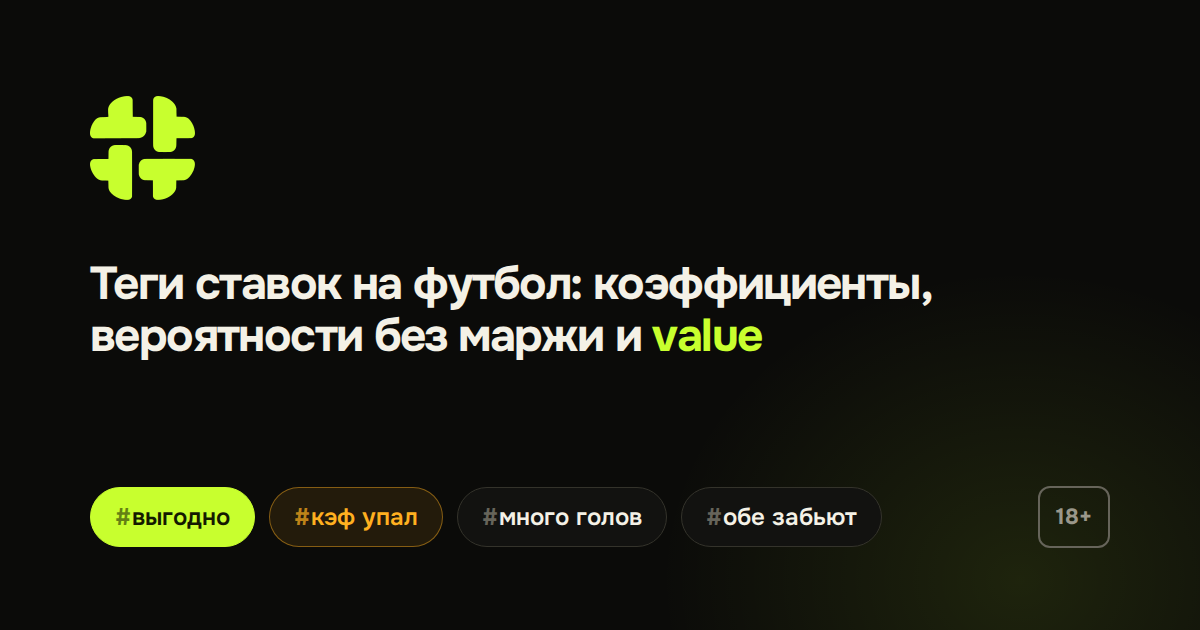
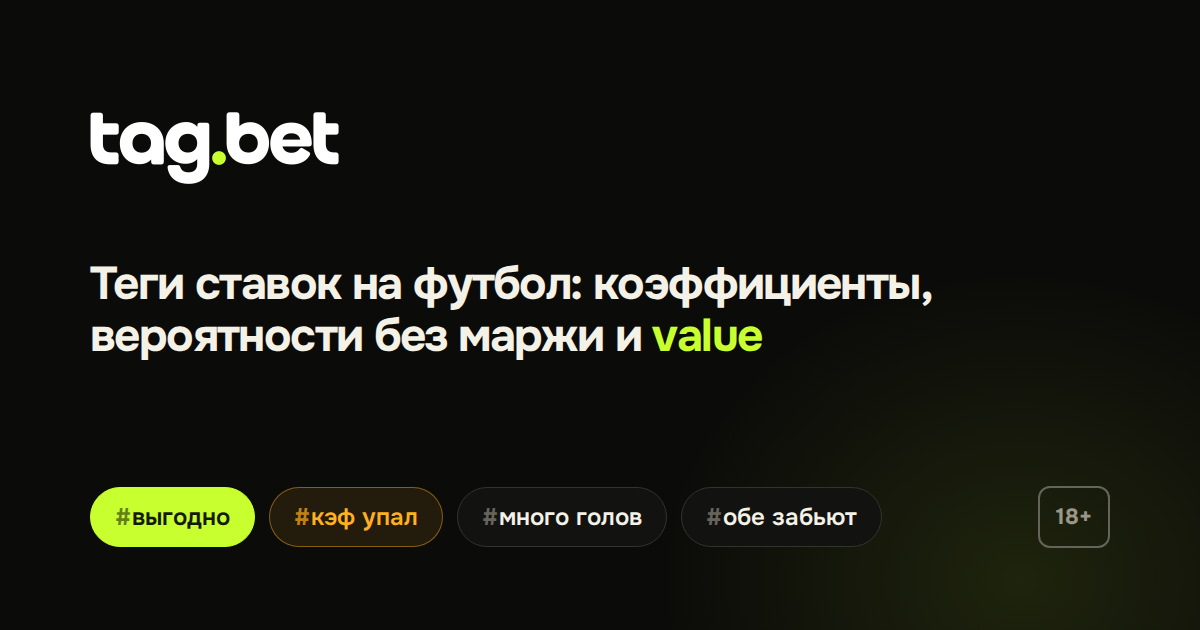
Логотип — надпись tag.bet с лаймовой точкой; во вкладке и на иконках — «t.»
Claude-Session: https://claude.ai/code/session_01LqCxNKeCAKNwhNzoBsjYvY

Changed region(s): [[0.0617, 0.1508, 0.3083, 0.3317]]

diff --git a/components/Logo.tsx b/components/Logo.tsx
@@ -1,20 +1,21 @@
 /**
- * Логотип tag.bet — решётка из четырёх «Т» владельца, без надписи (шапка, подвал). Вектор public/brand/mark.svg —
- * обводка картинки владельца как есть (форму не меняем); тот же знак — во вкладке (app/icon.svg), в иконке для
- * телефона, аватаре и картинке для соцсетей (там он лаймовый — цвет бренда). На сайте красим маской в тёплый белый,
- * как кнопки и текст: владелец выбрал белый, когда кнопки стали белыми — лайм на экране держат кольца историй.
- * size — высота в px. Название сайта — в подписи ссылки и заголовке вкладки.
+ * Логотип tag.bet — надпись владельца (владелец: «а что если лого просто надписью сделать?»): скруглённые строчные
+ * буквы цветом текста и лаймовая точка — единственный акцент, тот же лайм, что у «Бонуса» и выгодных кэфов. Имя и есть
+ * адрес — читается сразу, знак из четырёх «Т» надо было выучить. Шапка и подвал; файлы — public/brand/logo.svg
+ * (белая), logo-black.svg (для светлого фона). Во вкладке, на иконке телефона и аватаре надпись в 16–40px не читается —
+ * там «t.» (буква t из надписи и та же точка на тёмной плашке: app/icon.svg, public/brand/mark.svg).
+ * size — высота в px (по высоте букв с хвостом «g»).
  */
-const MARK = 'url(/brand/mark.svg) center / contain no-repeat'
-/** Ширина к высоте у знака (571×565). */
-const MARK_ASPECT = 571 / 565
+const LETTERS =
+  'M142 127H191Q212 127 212 148V204H306Q327 204 327 225V267Q327 287 307 287H212V355C212 397 232 416 272 416H305Q326 416 326 437V482Q326 503 305 503H265C171 503 122 451 122 357V148Q122 127 142 127Z M494 195C399 195 335 260 335 349C335 440 395 502 478 502C513 502 541 491 563 468V484Q563 504 584 504H635Q655 504 655 484V351C655 260 592 195 494 195ZM494 281C453 281 427 309 427 349C427 390 453 418 494 418C535 418 562 390 562 349C562 309 535 281 494 281Z M819 195C730 195 666 259 666 348C666 436 728 499 812 499C850 499 879 486 898 465V500C898 539 876 561 835 561C803 561 783 548 775 522Q771 508 755 508H700Q679 508 683 531C695 604 752 645 835 645C932 645 986 590 986 500V220Q986 200 966 200H919Q899 200 899 220V230C880 208 852 195 819 195ZM830 281C789 281 762 308 762 348C762 389 789 417 830 417C871 417 898 389 898 348C898 308 871 281 830 281Z M1135 124H1183Q1205 124 1205 145V225C1225 206 1252 196 1284 196C1361 196 1421 260 1421 348C1421 440 1358 502 1270 502C1174 502 1112 439 1112 348V146Q1112 124 1135 124ZM1271 281C1229 281 1203 309 1203 349C1203 389 1229 417 1271 417C1312 417 1339 389 1339 349C1339 309 1312 281 1271 281Z M1583 199C1492 199 1430 261 1430 351C1430 443 1493 504 1587 504C1646 504 1694 479 1717 437Q1726 422 1710 412L1668 387Q1654 378 1643 391C1629 409 1611 419 1585 419C1549 419 1526 401 1519 373H1710Q1732 373 1732 352C1732 258 1675 199 1583 199ZM1583 277C1549 277 1526 295 1519 323H1648C1641 294 1620 277 1583 277Z M1765 124H1813Q1834 124 1834 145V204H1906Q1927 204 1927 225V267Q1927 287 1907 287H1834V355C1834 397 1854 416 1894 416H1906Q1927 416 1927 437V482Q1927 503 1906 503H1887C1793 503 1744 451 1744 357V145Q1744 124 1765 124Z'
+/** Ширина к высоте у надписи (1812×524). */
+const ASPECT = 1812 / 524
 
-export function LogoMark({ size = 28, className = '' }: { size?: number; className?: string }) {
+export function Wordmark({ size = 24, className = '' }: { size?: number; className?: string }) {
   return (
-    <span
-      aria-hidden
-      className={`inline-block shrink-0 bg-fg ${className}`}
-      style={{ height: size, width: Math.round(size * MARK_ASPECT), mask: MARK, WebkitMask: MARK }}
-    />
+    <svg aria-hidden viewBox="118 122 1812 524" height={size} width={Math.round(size * ASPECT)} className={`block shrink-0 ${className}`}>
+      <path fill="currentColor" fillRule="evenodd" d={LETTERS} />
+      <circle cx="1057" cy="457" r="50" fill="var(--color-acid)" />
+    </svg>
   )
 }

diff --git a/app/globals.css b/app/globals.css
@@ -654,11 +654,9 @@
 }
 
 /* Фирменный шрифт — Oswald (узкий, как табло стадиона; выбрал владелец из Unbounded и Oswald): крупные
-   заголовки заглавными (h1, .h2, заголовки секций `Section`), крупный счёт и время на табло, название tag.bet
-   в шапке. Остальной текст и мелкие h2 (подписи, заголовки таблиц) — Onest. */
+   заголовки заглавными (h1, .h2, заголовки секций `Section`), крупный счёт и время на табло. Остальной текст и мелкие h2 (подписи, заголовки таблиц) — Onest. */
 :is(h1, .h2),
-.display-num,
-.wordmark {
+.display-num {
   font-family: var(--font-display);
 }
 :is(h1, .h2) {
@@ -677,15 +675,6 @@ h1.h1-quiet {
   font-weight: 500;
   letter-spacing: 0;
 }
-.wordmark {
-  color: var(--color-fg);
-  font-size: 21px;
-  font-weight: 600;
-  line-height: 1;
-  letter-spacing: 0.01em;
-  text-transform: uppercase;
-}
-
 /* Каркас, как у Spotify (app/layout.tsx, от xl): центральная панель — графит чуть светлее фона страницы, сверху
    мягко спускается свет цветом содержимого — клубов матча на экране (components/shell/tint.tsx), по умолчанию лайм;
    слева цвет хозяев, справа гостей — два пятна 560×480px по бокам от середины (за эмблемами «Матча дня»), а не на всю ширину: на широком окне заливка во всю панель выглядела обоями. min() с процентами в размере эллипса Chrome не принимает — весь фон пропадает. Цвета — @property, поэтому при листании матчей градиент плавно перетекает */

diff --git a/components/Header.tsx b/components/Header.tsx
@@ -3,12 +3,12 @@ import { primaryPartner } from '@/config/bookmakers'
 import { goHref } from '@/lib/affiliate'
 import { CtaLink } from './CtaLink'
 import { HeaderShell } from './HeaderShell'
-import { LogoMark } from './Logo'
+import { Wordmark } from './Logo'
 import { NavLinks } from './NavLinks'
 import { Search } from './Search'
 
 /**
- * Шапка одной спокойной строкой: знак с названием tag.bet и меню текстом слева, справа поиск, 18+ и «Бонус».
+ * Шапка одной спокойной строкой: надпись tag.bet и меню текстом слева, справа поиск, 18+ и «Бонус».
  * Бегущую строку матчей убрали — шапка была перегружена, а идущие матчи и так видны в «В игре» и «Главных матчах».
  * Ниже lg меню — тем же текстом во втором ряду.
  */
@@ -18,10 +18,7 @@ export function Header() {
     <HeaderShell>
       <div className="mx-auto flex h-16 max-w-6xl items-center gap-3 px-4 sm:px-5 lg:gap-5 xl:max-w-none xl:px-6">
         <Link href="/" aria-label="tag.bet — на главную" className="shrink-0 text-fg transition-opacity hover:opacity-80">
-          <span className="flex items-center gap-2">
-            <LogoMark size={26} />
-            <span className="wordmark">tag.bet</span>
-          </span>
+          <Wordmark size={26} />
         </Link>
         <NavLinks className="hidden shrink-0 lg:flex" />
         <span className="flex-1" />

diff --git a/components/Footer.tsx b/components/Footer.tsx
@@ -1,6 +1,6 @@
 import Link from 'next/link'
 import { SITE } from '@/config/site'
-import { LogoMark } from './Logo'
+import { Wordmark } from './Logo'
 
 export function Footer() {
   return (
@@ -8,7 +8,7 @@ export function Footer() {
     <footer className="mt-6 border-t border-edge xl:hidden">
       <div className="mx-auto grid max-w-6xl gap-8 px-4 py-10 sm:grid-cols-[1.4fr_1fr_1fr]">
         <div>
-          <LogoMark size={28} />
+          <Wordmark size={26} className="text-fg" />
           <p className="mt-3 max-w-sm text-sm leading-relaxed text-dim">
             Теги ставок на футбол: сравнение коэффициентов, вероятности без маржи, форма команд и прогнозы на основе данных.
           </p>

diff --git a/AGENTS.md b/AGENTS.md
@@ -15,6 +15,7 @@ This block is written and re-added by `next dev` — verify at `node_modules/nex
 - Страницы с данными — `dynamic = 'force-dynamic'`; кэширует наш слой данных, а не Next.
 - У динамических страниц нет `loading.tsx` намеренно: иначе `notFound()`/`permanentRedirect()` отдают 200 вместо 404/308.
 - Цветовой токен фона называется `ink` (не `base`: в Tailwind v4 `text-base` — размер шрифта): графит `#0B0F14` (текст на лаймовых кнопках, стекло шапки); фон страницы — `#090C10` на `body`.
+- **Логотип — надпись «tag.bet»** (владелец: «а что если лого просто надписью сделать?»; надпись нарисовал сам, согласился): скруглённые строчные буквы цветом текста и лаймовая точка (`--color-acid`) — `Wordmark` в `components/Logo.tsx` (вектор инлайн, `currentColor`), в шапке и подвале 26px; Oswald-надписи «TAG.BET» и знака из четырёх «Т» больше нет (`LogoMark`, `.wordmark` удалены). Надпись в 16–40px не читается — во вкладке (`app/icon.svg`), иконке телефона (`app/apple-icon.png`) и аватаре (`public/brand/avatar.png`) знак «t.»: буква t из надписи и та же точка на тёмной плашке (`public/brand/mark.svg`); в `public/og.png` — надпись. Белая и чёрная надписи — `public/brand/logo.svg`, `logo-black.svg`. Ниже про решётку из четырёх «Т» и «TAG.BET» Oswald в шапке — история.
 - **Страница матча от xl — без «блока в блоке»** (владелец: «там блоки в блоке на странице матча»), как главная: метка `.bare-match`, правила в конце `app/globals.css` — центр прозрачный, `main` до 72rem без отступов, каждый раздел (`.card`) — панель `bg-panel` без рамки, зазор 8px (`xl:mt-2`, `xl:space-y-2`, `xl:gap-2` в `app/match/[slug]/page.tsx`); хлебные крошки с тихим заголовком — панелью сверху (`.bare-match-head`). Ниже xl — как было.
 - **Страница матча: «Наш вывод» одним блоком, тихий заголовок, один вид заголовков** (владелец спросил «а страница матча как сейчас?»; из четырёх пунктов сделали А и В): «Коротко о матче» (`VerdictCard`), «Прогноз tag.bet» (`PickCard`, удалён) и «Теги матча» пересказывали одно и то же (выгодная ставка звучала 5 раз, шансы — 4) — теперь до начала матча один блок `Conclusion` в `components/match/VerdictCard.tsx` (`id="pick"`): расклад одной фразой, голы и падение кэфа, ниже — ставка (выгодная / наш выбор, шанс · честная цена · выгода, кнопка к букмекеру, пометка рекламы; звёзд «уверенность» нет), внизу «В подборках:» — теги чипами (повод — в подсказке); шансы исходов здесь не повторяем — они на табло; теги из табло убраны (там только «Разбор за минуту»); после начала — прежний раздел «Теги матча». Заголовок `h1` — тихий (`h1-quiet`, 15px, серый: для поисковиков, команды крупно на табло); «Где поставить» и «Другие матчи» — тем же `h2`, что разделы (без `eyebrow`). Потом — Б и Г (владелец: «да»): таблица букмекеров простыми словами (`colsFor` в `OddsTable.tsx`: названия команд, «Ничья», «3+ гола», «До 2 голов», «Обе забьют», строка «Честная цена (tag.bet)», точка — «кэф выше честной цены»), «Голы и счёт» — «Сколько голов ждём», «по кэфам 8 букмекеров и нашей модели», «Рейтинг силы команд», в «Форме команд» и «Личных встречах» — «3+ гола» (без xG / Glicko-2 / «рынок (8 БК)»), разбор матча (`lib/preview.ts`) — без «П1/П2», «ТБ 2.5», «value-ставка», «Glicko-2», а кэф в «Прогнозе» — только легального партнёра; на табло кэфы одной линии одного партнёра (у кого выгодна ставка, иначе первый по `PARTNERS` с тремя исходами) с его именем («Кэфы Winline»), ячейки — ссылки к нему (`goHref(…, 'match-hero')`, rel=sponsored, «Реклама · 18+»), лаймом — если именно у него кэф выше честной цены (`valueThreshold`, как точка в таблице).
 - **Рука над кнопками** (владелец: «почему при наведении на историю не появляется рука?»): в Tailwind v4 у `<button>` курсор по умолчанию — стрелка; в `@layer base` (`app/globals.css`) — `cursor: pointer` у `button:not(:disabled)`, `[role='button']` и `summary`. Новые кнопки получают руку сами — `cursor-pointer` писать не нужно.

diff --git a/README.md b/README.md
@@ -109,15 +109,15 @@ value, прогрузы, теги) и до пяти главных тегов д
 
 ## Бренд
 
-Логотип — лаймовая решётка из четырёх «Т», без надписи (нарисовал владелец; вектор — обводка его картинки,
-форму не меняем). Он в шапке и подвале (`LogoMark` в `components/Logo.tsx`), на иконках и в превью ссылок; название
-сайта — в заголовке вкладки и подписи ссылки «на главную». Файлы — в `public/brand/`:
+Логотип — надпись «tag.bet» (рисунок владельца): скруглённые строчные буквы цветом текста и лаймовая точка. Он в
+шапке и подвале (`Wordmark` в `components/Logo.tsx`, вектор — инлайн) и в превью ссылок. Для мелких размеров (вкладка,
+иконка телефона, аватар) — знак «t.»: буква t из надписи и та же точка. Файлы — в `public/brand/`:
 
 | Файл | Где использовать |
 | --- | --- |
-| `logo.svg` | логотип (решётка) для тёмного фона |
-| `logo-black.svg` | одноцветный для светлого фона (документы, печать) |
-| `mark.svg` | тот же знак — исходник: маска логотипа в шапке и подвале, по нему собраны иконки и превью |
+| `logo.svg` | надпись для тёмного фона (белые буквы, лаймовая точка) |
+| `logo-black.svg` | одноцветная надпись для светлого фона (документы, печать) |
+| `mark.svg` | знак «t.» — для мелких размеров; по нему собраны иконки |
 | `avatar.png` | аватарка Telegram-канала и соцсетей (640×640) |
 
 Иконка вкладки — `app/icon.svg`, иконка для iPhone — `app/apple-icon.png`, превью ссылок — `public/og.png`.
@@ -125,7 +125,7 @@ value, прогрузы, теги) и до пяти главных тегов д
 афишные заголовки и цифры на «перекидных» флапах, как на стадионе. Лайм `#C8FF2E` — маркер «цена выше
 честной» (выгодные ставки, горящие коэффициенты) и главная кнопка; прогрузы — янтарные.
 Сила перевеса — яркостью того же лайма (чем больше, тем ярче), а не светофором: красный занят под live,
-зелёный/красный — только для формы команды (В/Н/П, с буквами). Шапка без полосы: логотип без подложки,
+зелёный/красный — только для формы команды (В/Н/П, с буквами). Шапка без полосы: надпись без подложки,
 меню-капсула строго по центру с «переезжающим» выбранным разделом, «Бонус» справа; стекло — при прокрутке.
 
 ### Обложки историй
